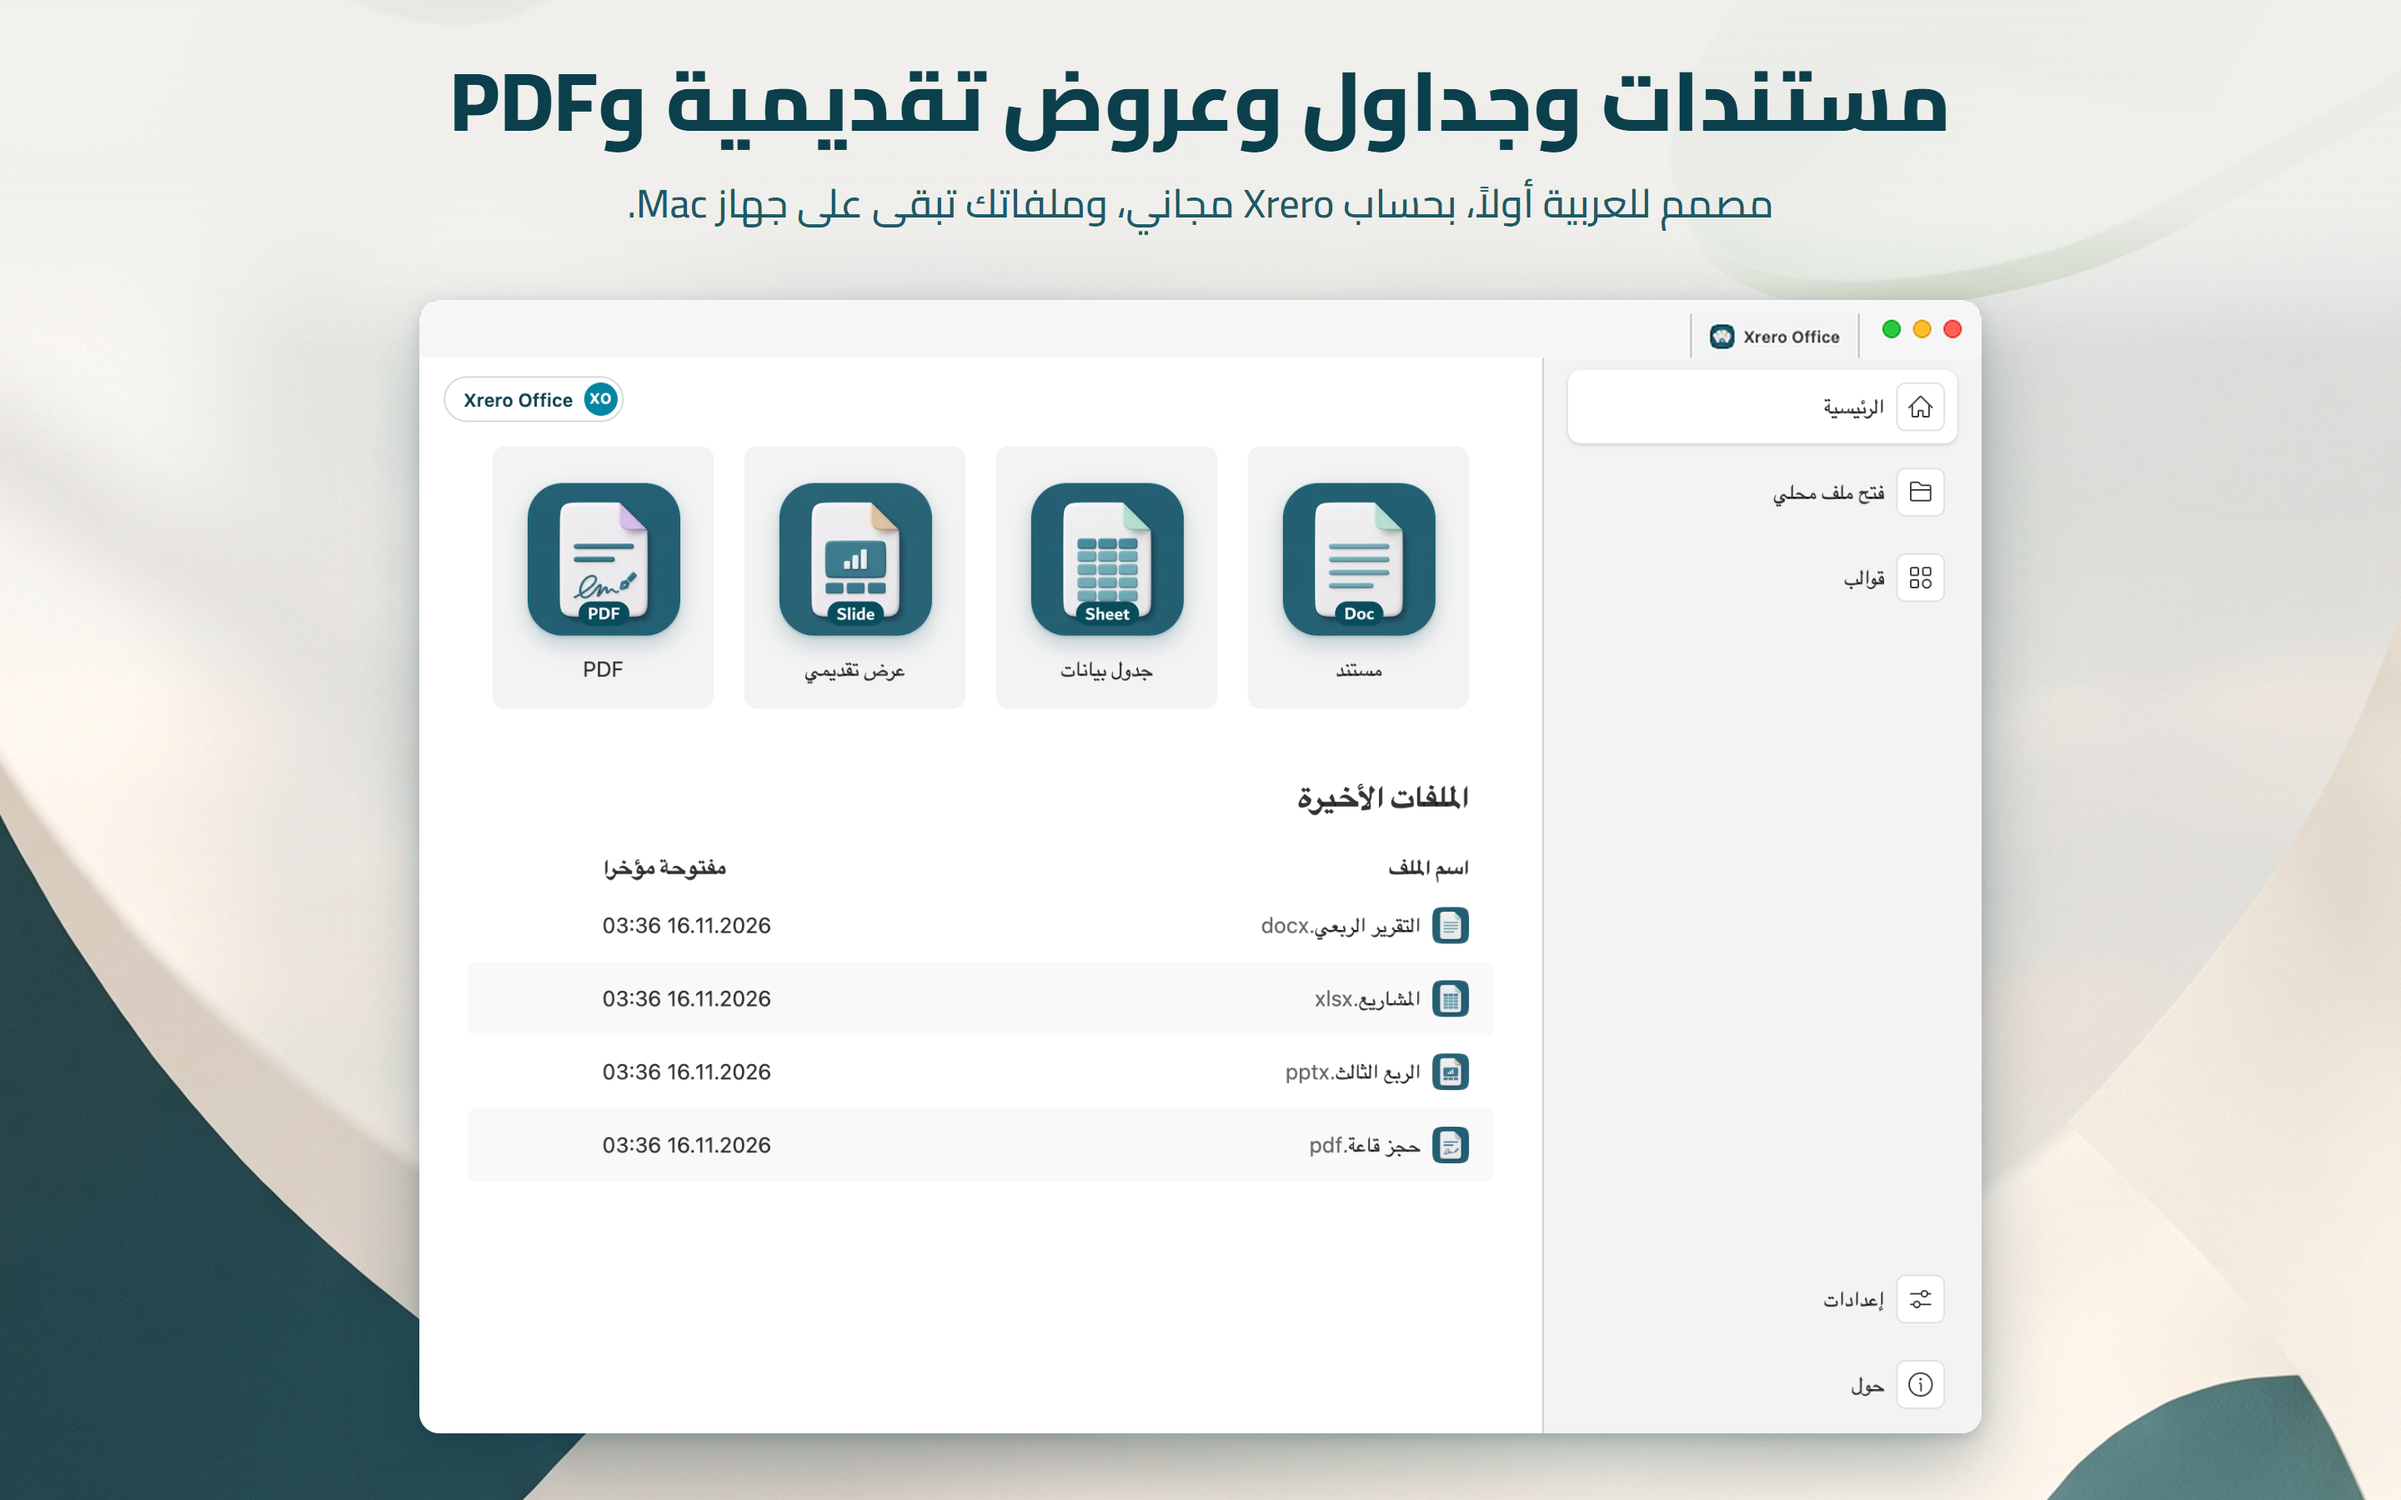
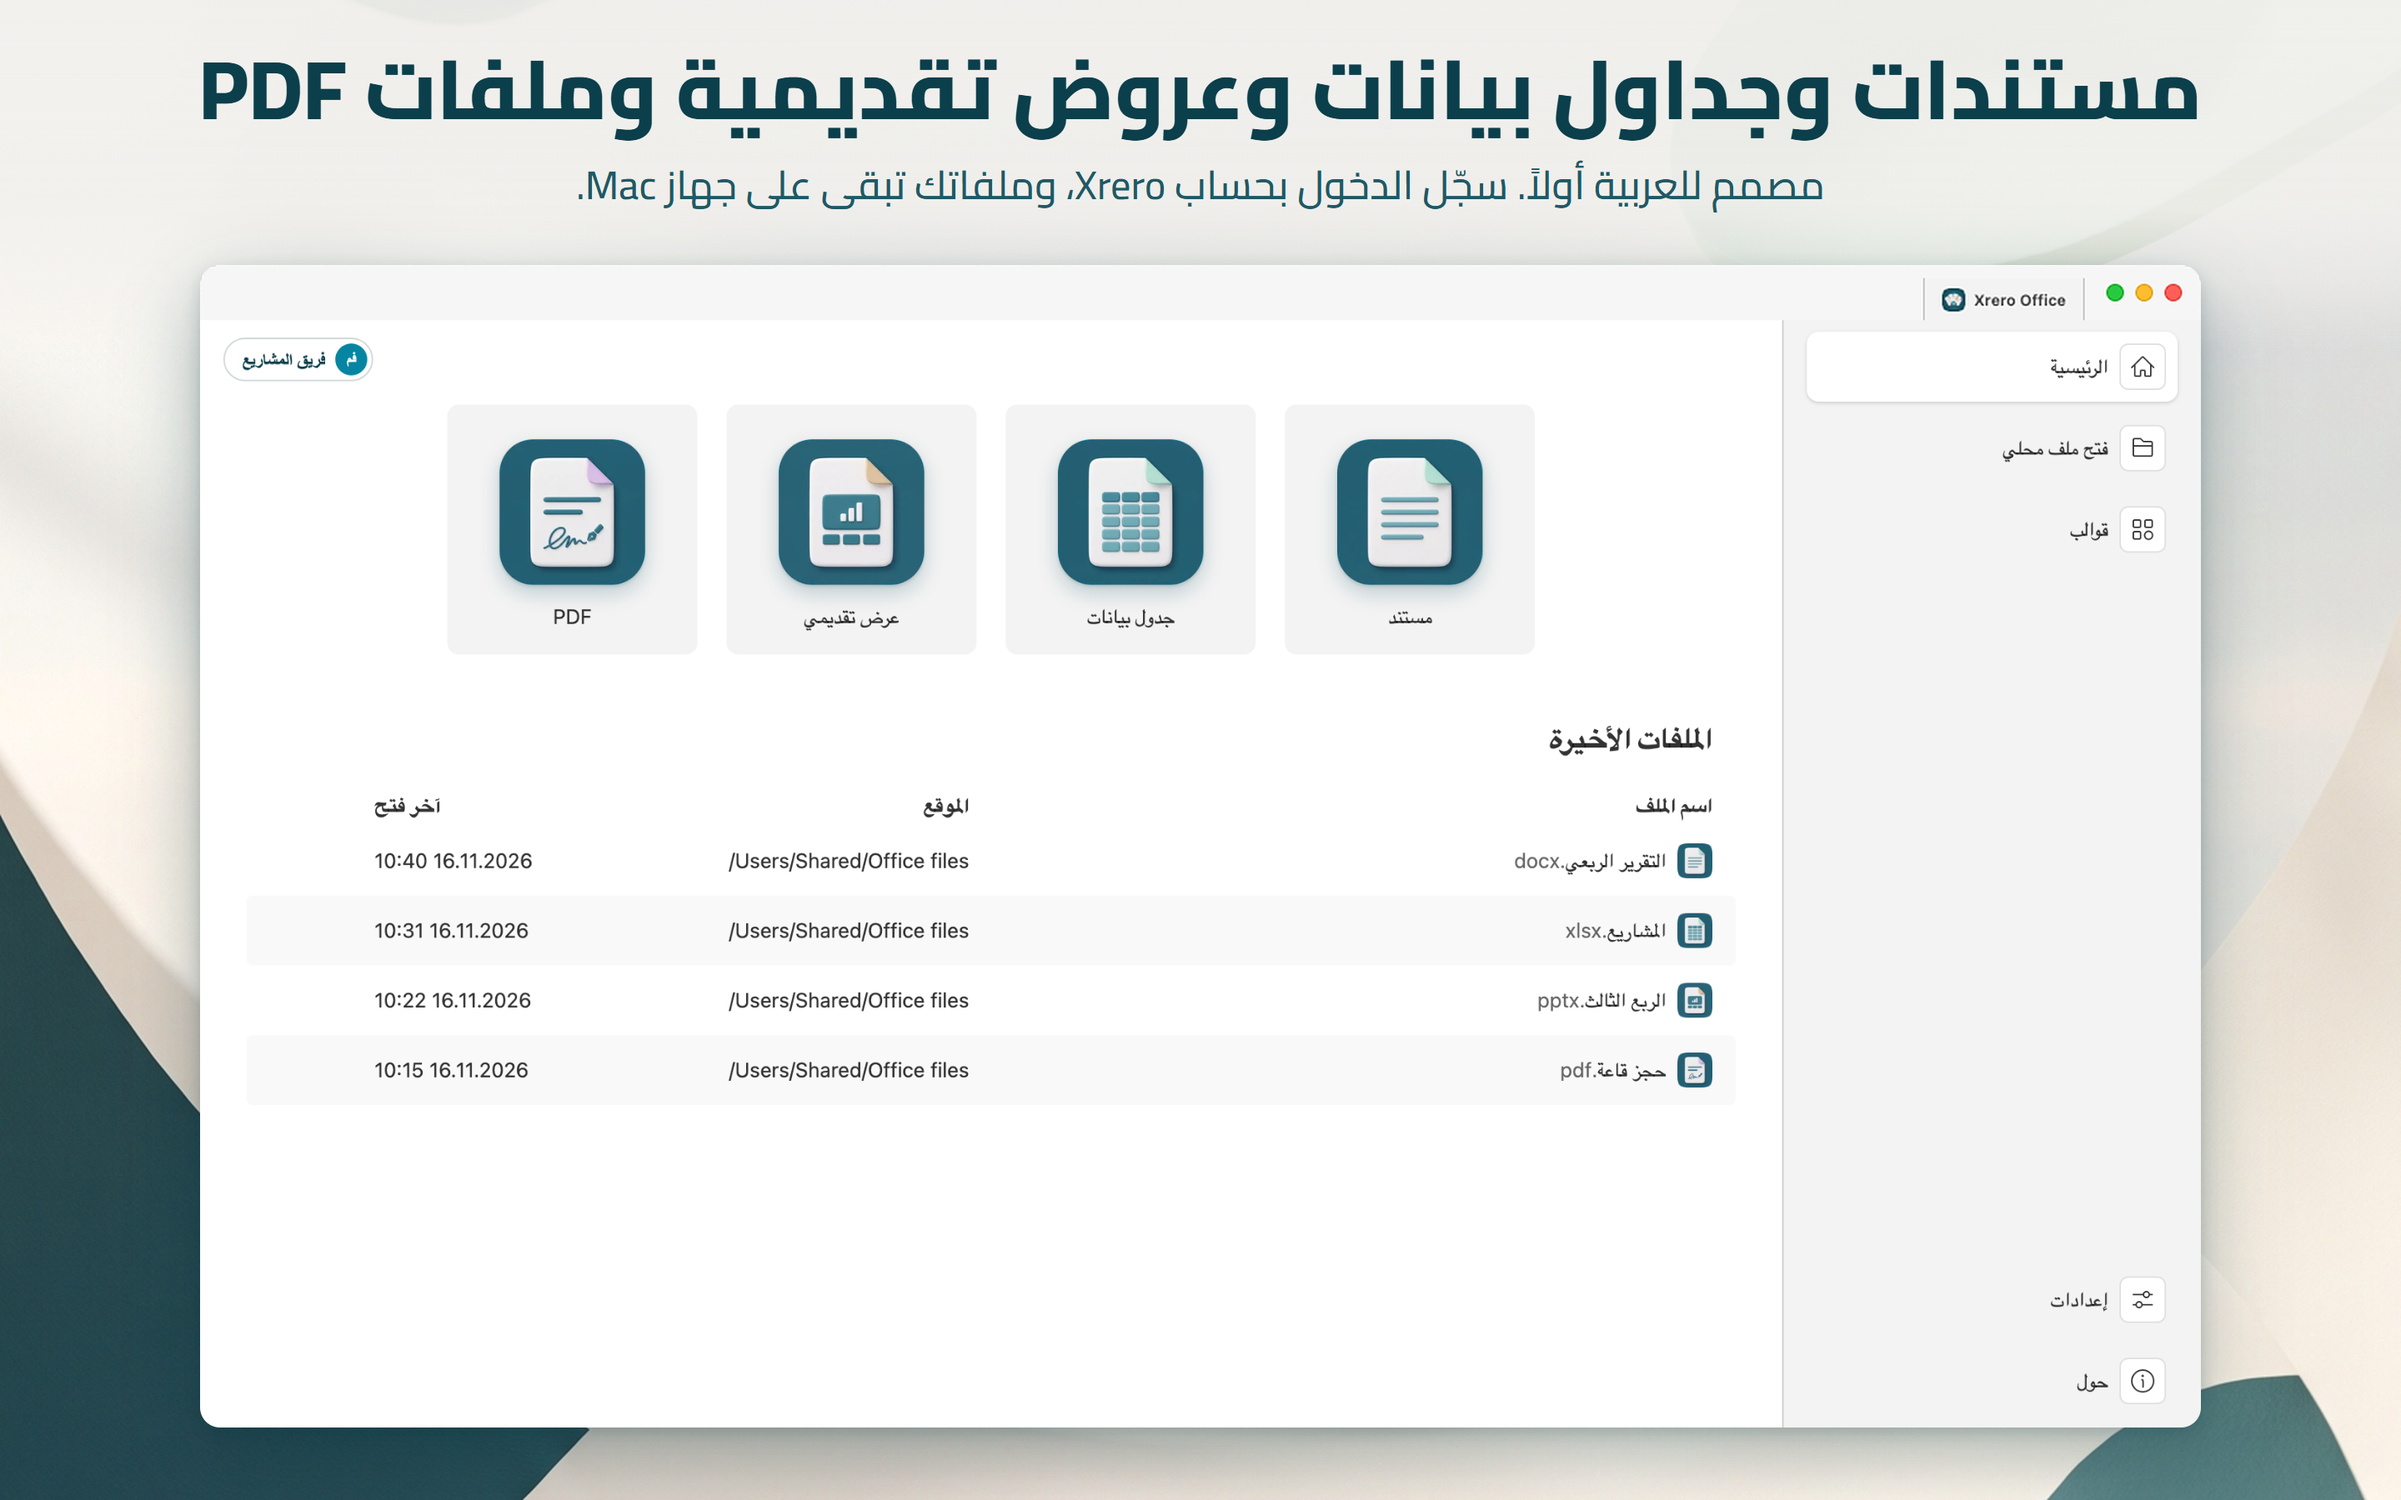
Mac App Store pictures (2880x1800, same names) from build-mac test_only run 43821062340 (run 31, all checks green)
Ten pictures re-captured and recomposed after the review of run 27:
- Captions (v20/mac/store_new_icons compose.js; previous version kept as
  compose_2026-11-16c.js / -d.js): no price word, the account said plainly ("Sign in
  with your Xrero account" / "سجّل الدخول بحساب Xrero"), no "Real", no "و" glued to a
  Latin word, صيغ only for formulas, each headline says what its picture shows.
- Listing order: the Arabic + English document first, then the start page.
- Window: 1376 x 800 pt for all ten (no ribbon group folded into "More"), drawn 2400 px
  wide (83 % of the picture, was 65 %).
- Start page: the account is a team ("Projects team" / "فريق المشاريع"), Recent files at
  10:15-10:40 from /Users/Shared/Office files, Arabic date column "آخر فتح", plain kit
  pictures on the Arabic cards, the folder path laid out from its own text.
- Sheet: column A indented, legend as a list on the right, a 16 cm chart, Arabic
  "تنسيق" and "التعاون" in the ribbon.
- Slides: the title's frame clear of its first and last letter.
- PDF: highlight, red-pen circle and sticky note made with the Comment tab's tools;
  no bold lam-alef heading in the Arabic form; Arabic field text 14 pt; the form saved,
  read back and reopened with every field, tick and mark kept.
Looked at each picture at full size and at 50 %. NOTES.md updated.

diff --git a/mas/store/NOTES.md b/mas/store/NOTES.md
@@ -4,47 +4,86 @@ Five pictures per language, in the listing's order (`mas/mas_metadata.py` SHOTS)
 
 | # | en-US | ar-SA | What it shows |
 |---|-------|-------|---------------|
-| 1 | mac_en_start.png | mac_ar_start.png | the start page with the four demo files under Recent files |
-| 2 | mac_en_editor.png | mac_ar_editor.png | the document editor, an Arabic-led report, caret in the Arabic summary |
+| 1 | mac_en_editor.png | mac_ar_editor.png | the document editor, an Arabic-led report with an English part, caret in the Arabic summary |
+| 2 | mac_en_start.png | mac_ar_start.png | the start page, the signed-in account (a team), the four demo files under Recent files |
 | 3 | mac_en_sheet.png | mac_ar_sheet.png | the spreadsheet editor: E5 selected (`=SUM(B5:D5)` in the formula bar), the file's column chart |
 | 4 | mac_en_slides.png | mac_ar_slides.png | the presentation editor: caret after slide 1's title, the four slides in the side panel |
-| 5 | mac_en_pdf.png | mac_ar_pdf.png | the PDF editor: Comment tab, a form filled in the app, a highlight, an ink circle and a sticky note |
+| 5 | mac_en_pdf.png | mac_ar_pdf.png | the PDF editor: Comment tab, a form filled in the app, a highlight, a pen circle and a sticky note made in the app |
+
+The document picture is first: it shows the app's point (Arabic and English, right to left) in the picture that
+search results show. The start page is second and carries the account line next to the account pill.
 
 All ten are real captures of the App Store variant (sandboxed test copy, ad hoc) on the CI Mac:
-`build-mac.yml` with `test_only=true` runs `mas/store_capture.py`. The pictures here come from run 27
-(43797343195, every capture check green). They are composed with
-`v20/mac/store_new_icons` (`prep.py` + `compose.js`, Cairo, the same background and window place for all ten).
-English pictures come from the app in en-US, Arabic pictures from the app in ar-SA. Demo files only
-(`mas/store_demo.py`): neutral UAE content, counts and dates, no money amounts, no names, no e-mail addresses.
+`build-mac.yml` with `test_only=true` runs `mas/store_capture.py`. The pictures here come from run 31
+(43821062340, every capture check green). They are composed with
+`v20/mac/store_new_icons` (`prep.py` + `compose.js`, Cairo, the same background and window place for all ten:
+the window 2400 px wide, 83 % of the picture). English pictures come from the app in en-US, Arabic pictures from
+the app in ar-SA. Demo files only (`mas/store_demo.py`): neutral UAE content, counts and dates, no money amounts,
+no names, no e-mail addresses. The account shown is a team ("Projects team" / "فريق المشاريع"), stored locally;
+nothing talks to xrero.com during the capture.
 
-How each new picture is made (and what is not done in the app):
+How each picture is made (and what is not done in the app):
+- **Window**: one size for all ten, 1376 x 800 pt. `store_capture.py` measures, in the English and Arabic
+  spreadsheet and presentation editors, the narrowest window at which no ribbon group folds into "More"
+  (`ribbon-fit.json`), and `mas/hidpi.swift` gives the CI display a 1600 x 1200 mode for it.
+- **Start page**: the four demo files are opened from `/Users/Shared/Office files` (the Recent files' location
+  column shows that folder, not the CI checkout), and their times are set to working hours (10:15-10:40) in the
+  app's own recent list.
 - **Sheet**: the table's totals are SUM formulas. E5 is selected the way the name box does it (`asc_findCell`).
-  The chart is the file's own chart part, drawn by the editor.
+  The chart is the file's own chart part (16 x 9.4 cm, so it fills the columns beside the table), drawn by the
+  editor; its legend is a list on the right (one row paired the colours with the wrong quarters when read right to
+  left). Column A is indented one step from its start side.
 - **Slides**: a real click into slide 1's title. The caret is then put after the title's last letter with the
-  editor's own `MoveCursorToEndPos`, because the End key does not do that on macOS.
-- **PDF**: the Comment tab is clicked, then the form is filled the way a user does it: Tab to each field, type, and
-  Enter to tick the boxes. The highlight, ink circle and sticky note are stored in the demo file (made by
-  `store_demo.py` with PyMuPDF). The app shows them, and its Comment tab has the tools to make them, but the picture
-  does not show them being drawn.
-- **Caret**: for the window and Retina captures of pictures 2, 4 and 5, the editor's caret blink timer is paused
+  editor's own `MoveCursorToEndPos`, because the End key does not do that on macOS. The title's frame sits 0.3 in
+  clear of its first and last letter.
+- **PDF**: the Comment tab is clicked, the footer line is selected with the mouse and highlighted with the Highlight
+  button, a circle is drawn around the date field with the red pen, and a sticky note is added with right click >
+  Add comment. Then the form is filled the way a user does it: Tab to each field, type, and Enter to tick the
+  boxes. After the pictures the form is saved (Cmd+S), read back from the file and opened again in the app: the
+  fields, the ticks and the three marks are all kept (run 31, both languages).
+- **Caret**: for the window and Retina captures of pictures 1, 4 and 5, the editor's caret blink timer is paused
   with its caret shown, then started again. This shows the editor's own caret at its own place, not an added one.
 
 ## Real-UI issues found while making them
 
-Fixed in the Mac app (`scripts/patch_bundle.py`, Mac bundle only; the Windows payload is unchanged):
-- **Arabic PDF editor**: the Collaboration ribbon tab was in English. The payload's `pdfeditor` `ar.json` keeps
-  "Collaboration", while the document and presentation editors say "التعاون". Now "التعاون".
+Fixed in the Mac app (`scripts/patch_bundle.py` / `web/xr-*.js`, Mac bundle only; the Windows payload is unchanged):
+- **PDF forms, ticks lost on Save** (run 28): a check box ticked with Enter showed the tick, but Save wrote it as
+  "Off", so the saved file and the reopened copy had no ticks, and the editor logged "changesError". sdkjs 9.4
+  `CPDFDoc.EnterDownActiveField` toggles the box outside an editing action and never commits it; a mouse click
+  goes through `OnMouseUpField` (the toggle inside `DoAction`, then the commit). The Mac editors send Enter on a
+  box down that same path (`pdfKeyTick` in the editors' shim). The Windows app still has this engine behaviour.
+- **Arabic spreadsheet ribbon**: the Home tab's "Format" button (shown once the window is wide enough for the cells
+  group) was English; now "تنسيق". The number-format dialog's "Format" label is now "التنسيق".
+- **Arabic spreadsheet Collaboration tab**: "العمل المشترك", while the other three editors say "التعاون"; now
+  "التعاون" in all four.
+- **Arabic PDF editor**: the Collaboration ribbon tab was in English. Now "التعاون".
+- **Arabic start page, Recent files' folder** (run 29): the location column laid a Latin path out right to left,
+  so "/Users/Shared/Office files" read "Users/Shared/Office files/" (the first slash at the far end). The path now
+  takes its direction from its own text (`unicode-bidi: plaintext`, `web/xr-home.js`) and stays right aligned;
+  Arabic folder names inside a path still read right to left.
+- **Arabic start page**: the Recent files' date column said "مفتوحة مؤخرا"; now "آخر فتح" (the English
+  column is "Last opened"). The four app cards use the plain kit pictures (no English badge on them).
+- **Arabic account initials**: the article is skipped ("فريق المشاريع" -> "فم", not "فا"), on the start page pill
+  and on the editors' account chip.
 - **Arabic spreadsheet formula bar**: a formula took the right-to-left direction of the interface, so
   `=SUM(B5:D5)` read `SUM(B5:D5)=`. Each line now takes its direction from its own text
   (`unicode-bidi: plaintext`) and stays right aligned (`XR-FBIDI`).
 
 Not fixed (engine behaviour; the capture works around it or avoids it):
-- **Arabic PDF form, first letter lost** (runs 23-27): in the right-to-left form, the first input typed into the
+- **Arabic PDF, bold lam-alef** (run 27): the app's PDF renderer drew the bold heading "ملاحظات" as "مادحظات" (the
+  lam-alef ligature broken). The regular weight ("الاجتماع", "الأقل") was right, and MuPDF draws the same file
+  correctly. The page text is IBM Plex Sans Arabic Bold, embedded as a subset by PyMuPDF; whether the subset is the
+  cause is not proven. Real Arabic PDFs with such bold text will show the same fault in the app (and on Windows).
+  The demo form avoids bold words with lam-alef ("تفاصيل إضافية", "خاص بالمكتب"); `store_demo.py` asserts it.
+- **Arabic PDF form, first letter lost** (runs 23-31): in the right-to-left form, the first input typed into the
   date field after tabbing into it does not arrive. Typed letter by letter, "2" was lost and "4/11/2026" stayed.
   Typed as one piece, the whole piece was lost. The capture reads the value back and types the missing start
   again, as a user would on seeing it. The English form and the Arabic fields that start with letters keep
   everything. This needs a separate look at sdkjs `pdf/src/forms` (font loading on the first digit is suspected,
   not proven).
+- **Arabic text in PDF form fields**: the demo's fields use Helvetica (no Arabic), so the app types Arabic in a
+  fallback face; it is set to 14 pt in the Arabic form (11 pt in the English one) so it reads at the size of the
+  labels.
 - **Backspace in that field** (run 25): Backspace sent by the capture (a DevTools key event) deleted nothing. This
   may be specific to synthetic key events. It was not checked with a real keyboard.
 - **Presentation status bar language**: Arabic slide text written as `lang="ar-AE"` is reported as "العربية –
@@ -69,5 +108,6 @@ Not fixed (engine behaviour; the capture works around it or avoids it):
 - The editors are opened with the CI account's name in their address (`username=Anka`). That name is not shown
   anywhere on screen; the capture checks the visible text and the title bars for user names and e-mail addresses.
 
-Store text to look at (not changed here): the description in `mas_metadata.py` says "plus PDF viewing", while
-picture 5 shows a PDF form being filled and annotated in the app.
+Store text: the description in `mas_metadata.py` now says "plus PDF viewing, form filling and comments" (it said
+"plus PDF viewing" while picture 5 shows a form filled and annotated), after the round trip above held in run
+31. Not sent to App Store Connect from here (`mas-meta` is a separate, owner-run step).
